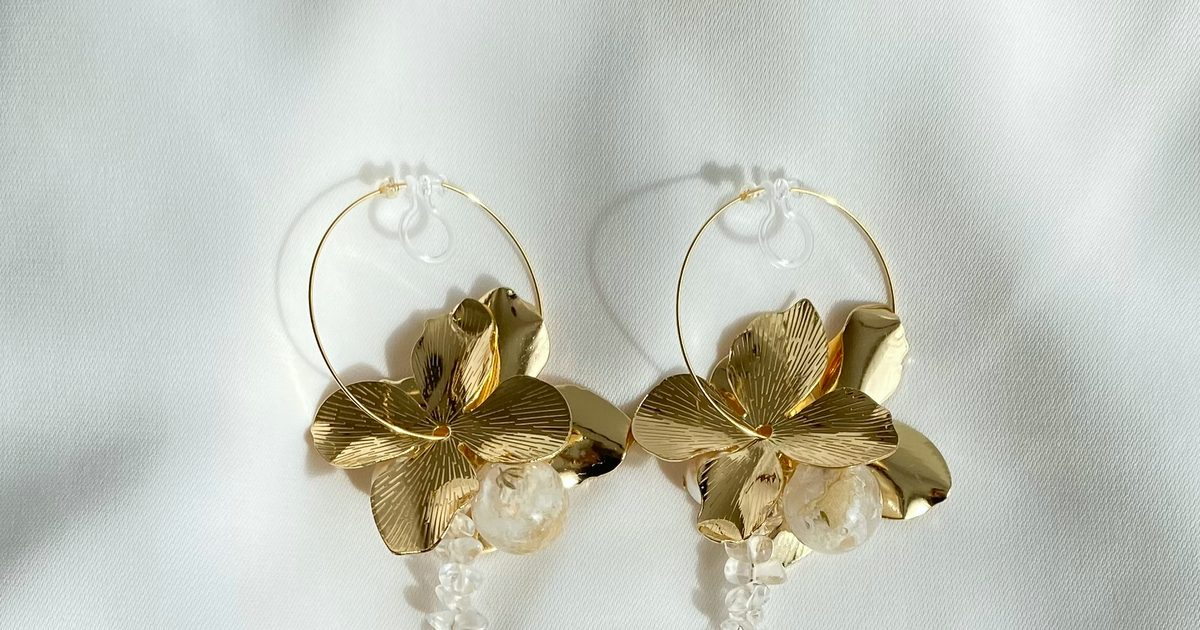
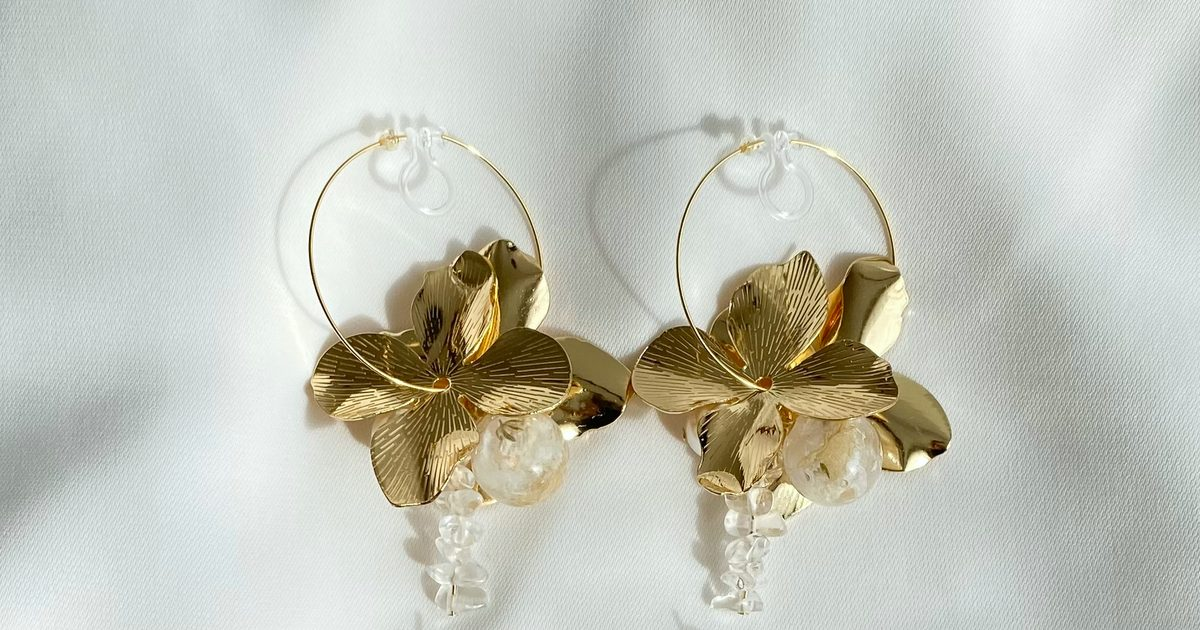
Version 1.2: hero art direction — never crop the signature piece
- Hero photo now uses the full two-pair 4:5 composition as shot;
  the previous wide crop cut the hoops and bead drops mid-piece,
  and measurement showed a single-pair crop cannot breathe (only
  ~30px separates the first pair's drops from the second pair's
  fittings), so the layout was adapted to the photograph instead
- 50:50 split keeps the entire 4:5 photo inside the first view
  down to 1366x768 laptops; photo area roughly doubles
- OG image recropped so the pair's bead drops are no longer cut

Lighthouse (mobile, local prod build): 93 / 100 / 100 / 100, CLS 0.

Claude-Session: https://claude.ai/code/session_01G8a5h28uZzx5N1N1zcrzRH

diff --git a/src/app/page.tsx b/src/app/page.tsx
@@ -21,11 +21,13 @@ export default function HomePage() {
     <>
       {/*
        * ヒーロー:言葉と「金の花」(ブランドを代表する作品)を最初の一画面に並べる。
-       * 写真はすべて実際の作品写真(AI生成画像は使わない)
+       * 写真はすべて実際の作品写真(AI生成画像は使わない)。
+       * 構図は撮影されたままの2組(4輪)を尊重し、作品を絶対に途中で切らない。
+       * 4:5の全身が1366x768のノートPCでも初画面に収まるよう、50:50で組む
        */}
       <Section space="compact">
         <Container>
-          <div className="grid items-center gap-10 md:grid-cols-[11fr_9fr] md:gap-16">
+          <div className="grid items-center gap-10 md:grid-cols-2 md:gap-16">
             <div>
               <p className="font-display text-[12px] uppercase tracking-[0.3em] text-rose">
                 Handmade in Sapporo
@@ -46,13 +48,13 @@ export default function HomePage() {
                 <ArrowLink href="/collection">作品を見る</ArrowLink>
               </div>
             </div>
-            <div className="relative aspect-[1936/1290] w-full">
+            <div className="relative aspect-[4/5] w-full">
               <Image
-                src="/images/hero-hoops.webp"
-                alt="白いサテンの上に並ぶ、金の花びらのフープピアス。花芯には押し花をとじこめた透明な球"
+                src="/images/product-hoops.webp"
+                alt="白いサテンの上に並ぶ、金の花びらのフープピアス2組。花芯には押し花をとじこめた透明な球と、透明ビーズの飾りが揺れる"
                 fill
                 priority
-                sizes="(min-width: 768px) 45vw, 100vw"
+                sizes="(min-width: 768px) 50vw, 100vw"
                 className="object-cover"
               />
             </div>
